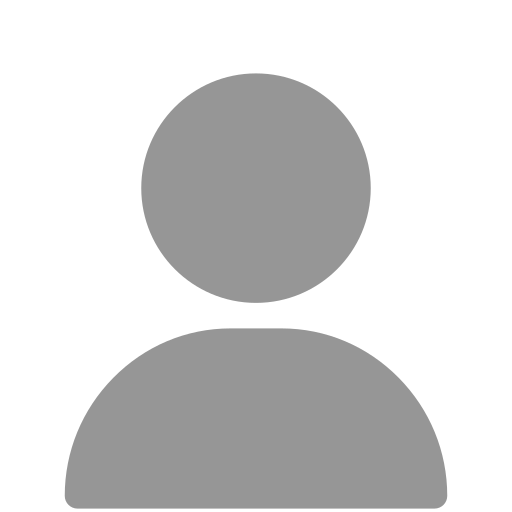
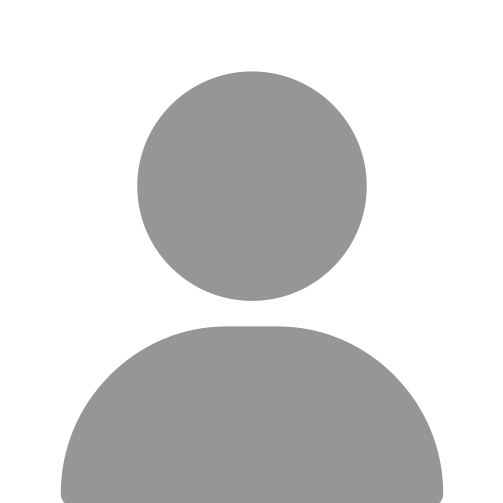
18/06

diff --git a/src/screens/UserProfile.js b/src/screens/UserProfile.js
@@ -29,10 +29,10 @@ const UserProfile = ({ navigation }) => {
                     </TouchableOpacity>
                 </View>
 
-                <View style={[styles.myBasicInformation, { paddingVertical: 5 }]}>
+                <View style={[styles.myBasicInformation, { paddingVertical: 5, paddingBottom: 35 }]}>
                     <Text style={styles.textName}>{user.fullName}</Text>
                     <Text style={styles.text}>{user.email}</Text>
-                    <Text style={styles.text}>({user.phoneNumber})</Text>
+                    <Text style={styles.text}>{user.phoneNumber ? user.phoneNumber : "SDT"}</Text>
                 </View>
             </View>
 
@@ -125,9 +125,14 @@ const styles = StyleSheet.create({
         color: COLORS.pureWhite,
     },
     mainContainer: {
+        backgroundColor: COLORS.pureWhite,
         flex: 1,
-        marginHorizontal: 16,
-        marginTop: 20,
+        paddingHorizontal: 16,
+        marginTop: -25,
+		paddingTop: 20,
+		borderTopLeftRadius: 30,
+		borderTopRightRadius: 30,
+		elevation: 10
     },
     item: {
         flexDirection: "row",
@@ -136,7 +141,7 @@ const styles = StyleSheet.create({
     },
     iconItem: {
         color: COLORS.shadowWhite,
-        backgroundColor: COLORS.oceanSlate,
+        backgroundColor: COLORS.sunsetOrange,
         padding: 14,
         borderRadius: 999,
     },
